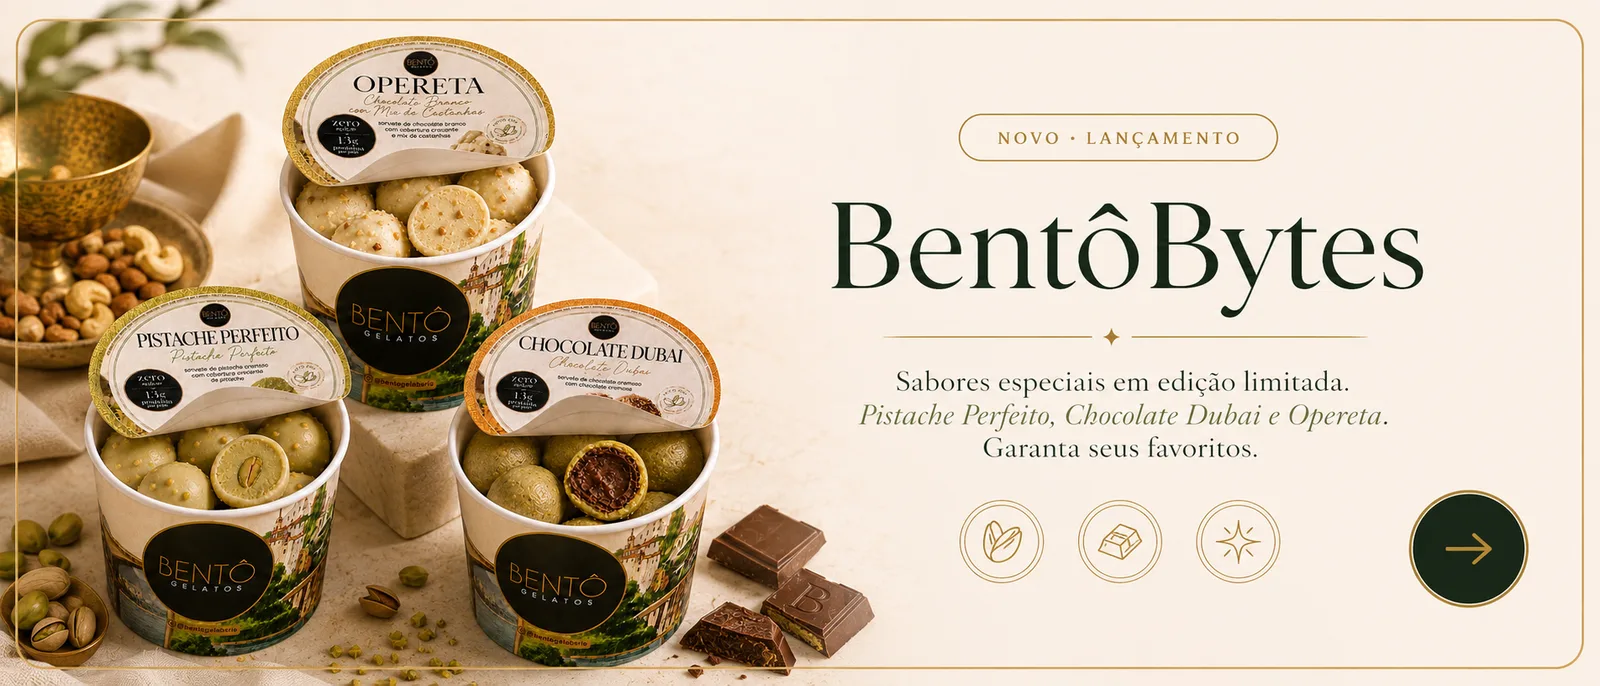
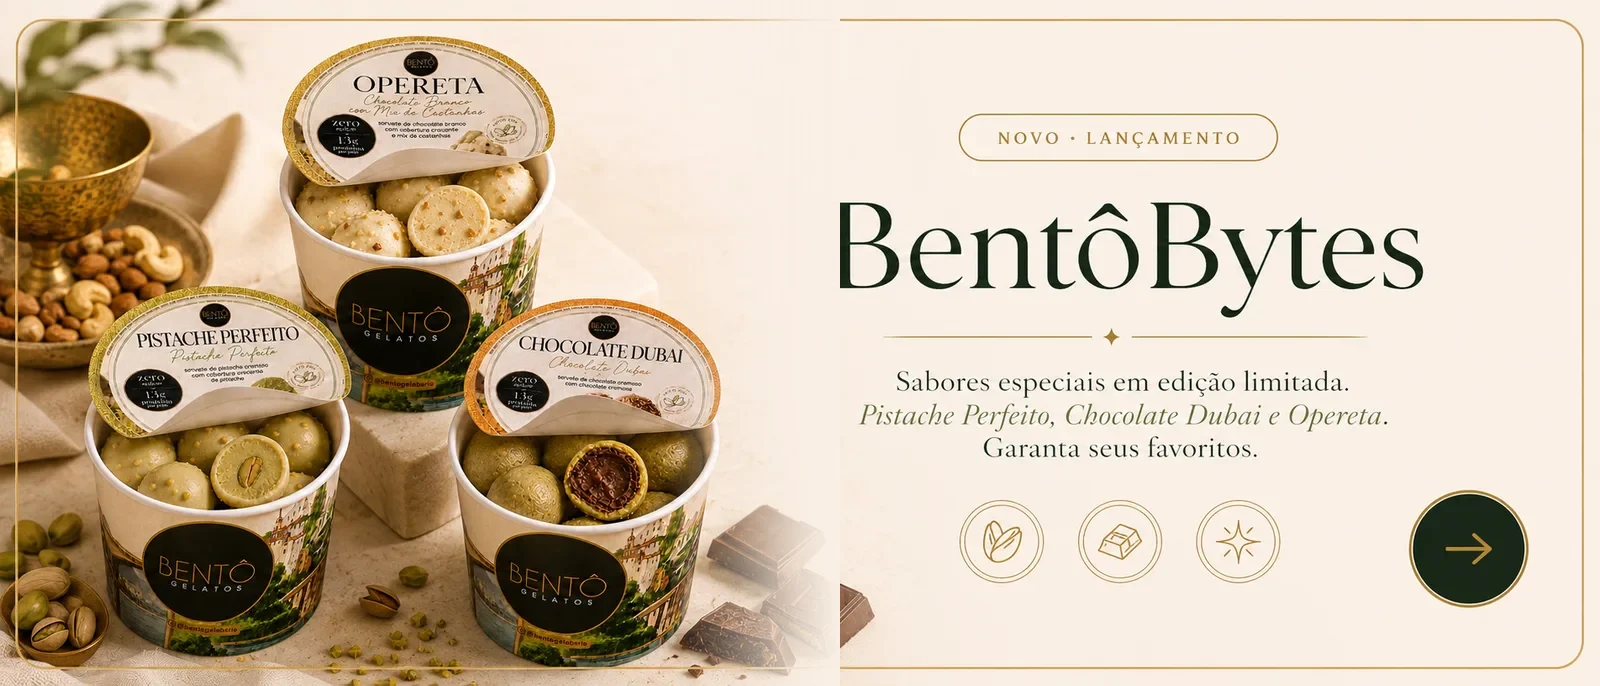
Transição esfumaçada em todos os cards e a moldura dourada fechando a curva
Dois acertos no padrão dos cards.

1) O esfumaçado entre foto e texto, que só o card de creators tinha, agora é de
todos. Cada arte recebe um véu de creme com alfa 0→1 terminando na borda real
da sua foto — 170 px de dissolvência no lugar do corte seco. A cor do véu é
amostrada da própria arte, então casa com o creme de cada uma.

Em `tabelas` e `cardapio` o título avança por cima da área da foto, então neles
o véu termina antes (788 e 796 em vez da borda detectada): senão o "T" e o "E"
saíam lavados.

2) O filete dourado aparecia só em cima e embaixo, sem fechar a curva nas
laterais. Causa: o corte do card é proporcional a CADA eixo, e com 6% uma arte
de 1600×533 perdia 48 px na horizontal mas só 16 px na vertical — exatamente a
posição do filete desenhado na arte. Sobravam os trechos horizontais e sumiam
os cantos. Com 9% (72 px e 24 px) o filete desenhado some por completo, e a
moldura passa a ser só a borda do card — que é CSS e curva certo nos quatro
cantos.

Claude-Session: https://claude.ai/code/session_013gkTmecifRiHBwwZaPfzgb

Changed region(s): [[0.4062, 0.7347, 0.5312, 1.0], [0.4062, 0.4898, 0.4688, 0.7041], [0.4688, 0.0, 0.5312, 0.0306]]

diff --git a/src/App.jsx b/src/App.jsx
@@ -151,13 +151,18 @@ function PhotoBanner({as="button",href,target,onClick,img,imgPos,selo,title,sub,
   const common={width:"100%",display:"flex",alignItems:"stretch",textAlign:"left",background:"rgba(255,253,247,.72)",border:`1px solid ${full?"rgba(201,162,74,.5)":"rgba(228,220,201,.78)"}`,borderRadius:18,overflow:"hidden",cursor:"pointer",marginTop:gap||14,boxShadow:"0 14px 34px -26px rgba(35,38,25,.55)",padding:0,minHeight:full?0:112,textDecoration:"none"};
   const d=BANNER_DIMS[img];
   // Modo "full": a própria arte já traz selo, título, subtítulo e seta — imagem cobre o card todo.
-  // O scale(1.06) come a moldura creme que cada arte traz desenhada (entre 13 e
-  // 89 px, medidos arte a arte) e o `overflow:hidden` do card apara o excesso.
-  // 6% ≈ 48 px de cada lado em 1600 px: tira a moldura sem encostar no conteúdo
-  // do painel — a seta mais à direita ainda tem ~82 px de folga. E opacidade
-  // cheia, para o creme do card não lavar a foto por baixo.
+  // O scale come a moldura creme que cada arte traz desenhada e o
+  // `overflow:hidden` do card apara o excesso.
+  //
+  // Por que 9% e não 6%: o corte é proporcional a CADA eixo. Com 6%, uma arte de
+  // 1600×533 perdia 48 px na horizontal mas só 16 px na vertical — justo onde o
+  // filete dourado está desenhado. Resultado: sobravam riscos dourados em cima e
+  // embaixo enquanto os cantos e as laterais eram cortados, e a curva não
+  // fechava. Com 9% são 72 px na horizontal e 24 px na vertical: o filete
+  // desenhado some de vez, e quem faz a moldura é a borda do card — que curva
+  // certo nos quatro cantos, porque é uma borda de CSS de verdade.
   const inner=full?(
-    <img src={img} alt={alt||title||""} width={d&&d[0]} height={d&&d[1]} loading={priority?"eager":"lazy"} fetchpriority={priority?"high":undefined} decoding={priority?"auto":"async"} onError={onImgErr} style={{display:"block",width:"100%",height:"auto",transform:"scale(1.06)"}}/>
+    <img src={img} alt={alt||title||""} width={d&&d[0]} height={d&&d[1]} loading={priority?"eager":"lazy"} fetchpriority={priority?"high":undefined} decoding={priority?"auto":"async"} onError={onImgErr} style={{display:"block",width:"100%",height:"auto",transform:"scale(1.09)"}}/>
   ):(
     <>
       <div style={{flexBasis:"40%",maxWidth:"40%",flexShrink:0,alignSelf:"stretch",position:"relative",overflow:"hidden"}}>
